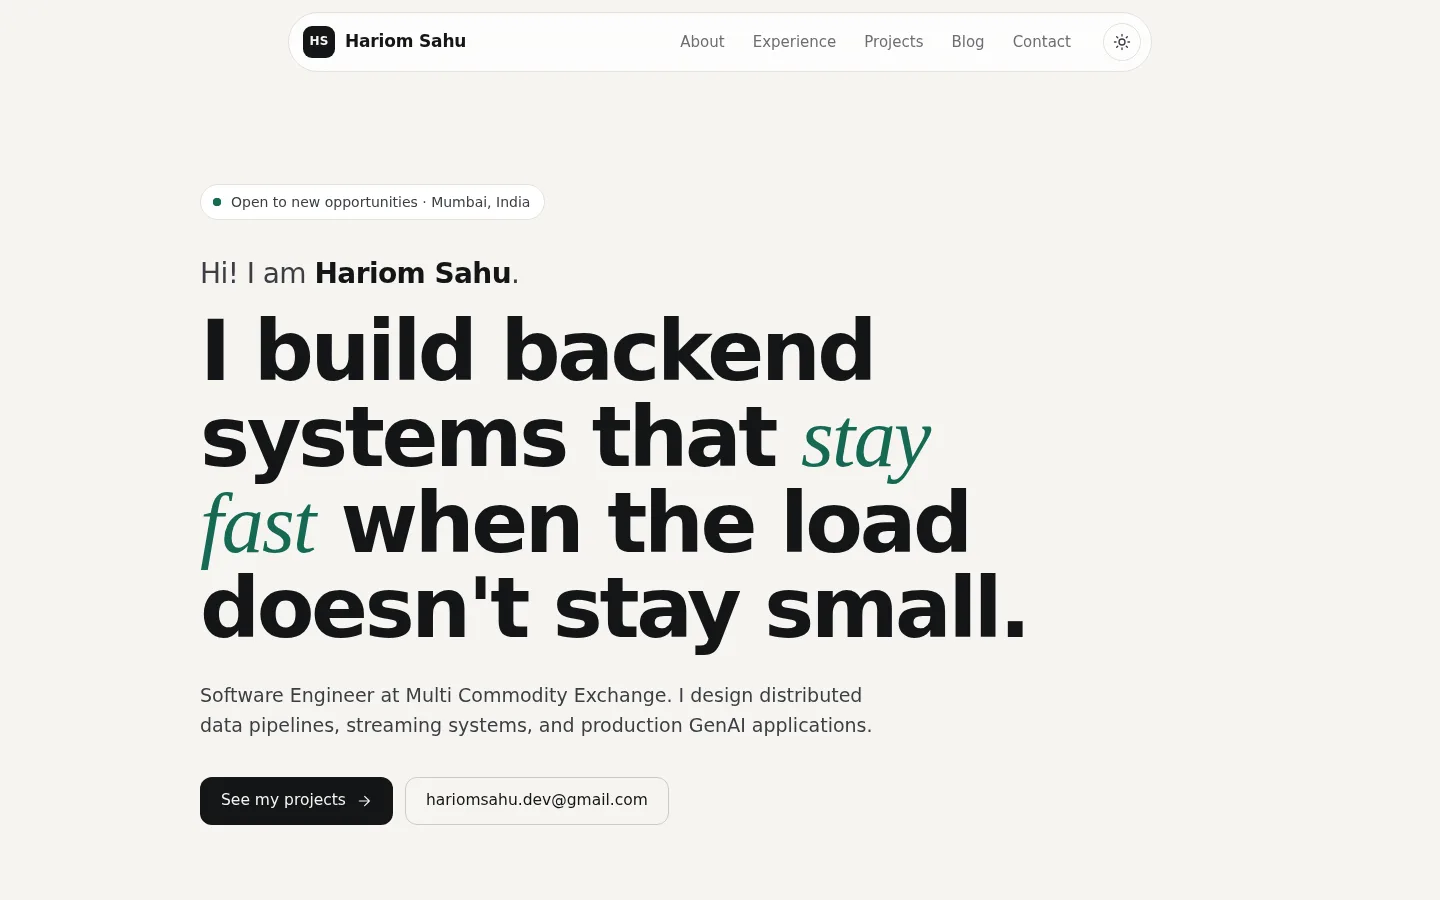
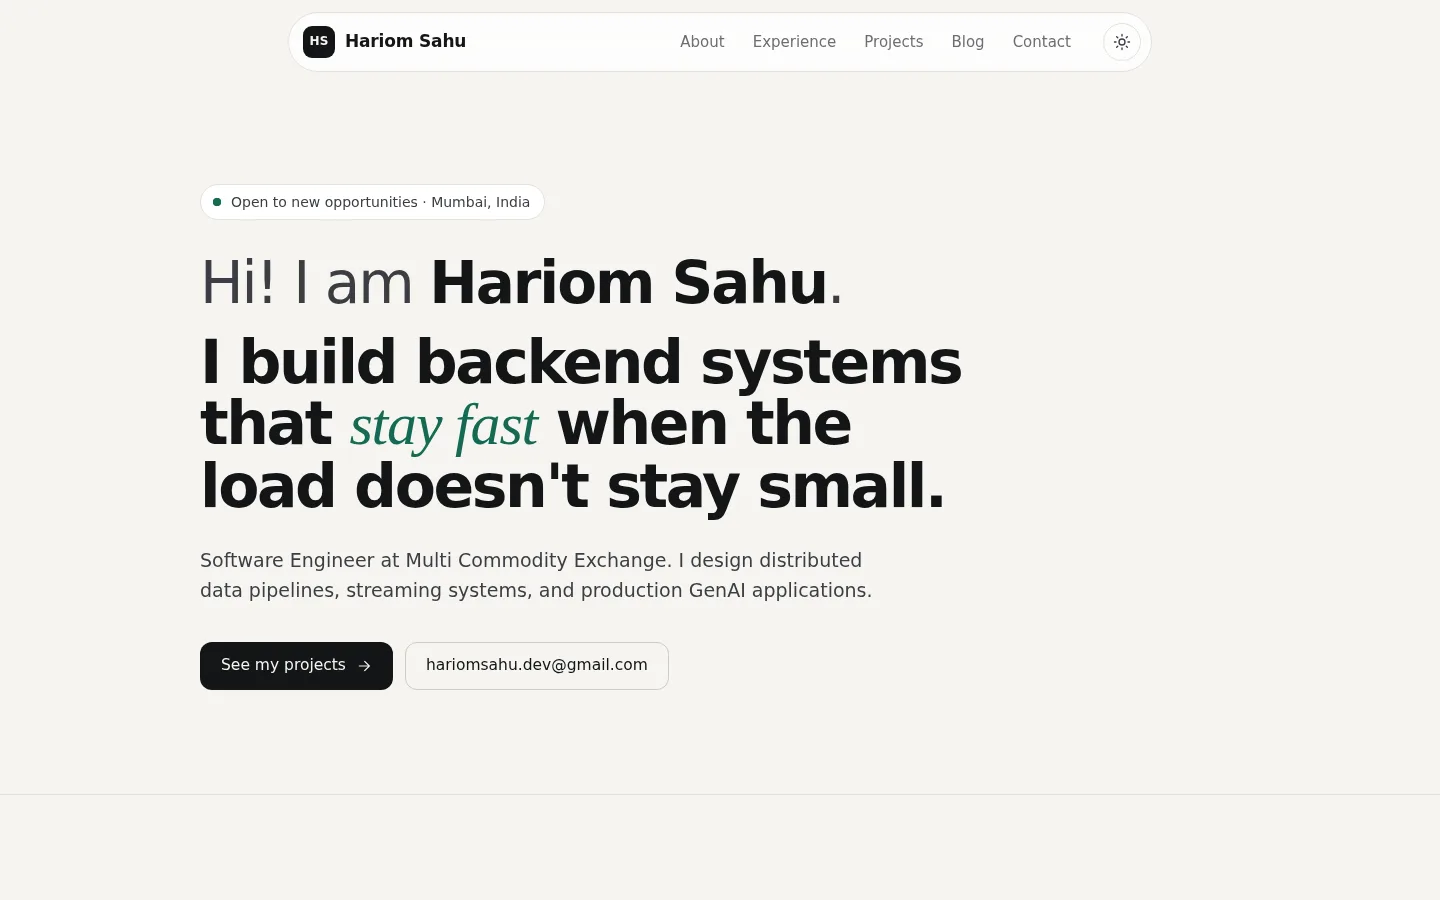
style: larger greeting, smaller headline in hero

Changed region(s): [[0.125, 0.28, 0.7188, 0.8089], [0.125, 0.84, 0.4375, 0.9333]]

diff --git a/assets/css/styles.css b/assets/css/styles.css
@@ -320,16 +320,18 @@ svg { width: 1em; height: 1em; fill: none; stroke: currentColor; stroke-width: 1
 
 .hero-hello {
   margin-top: 32px;
-  font-size: clamp(20px, 2.4vw, 28px);
-  letter-spacing: -0.02em;
+  font-size: clamp(34px, 4.4vw, 58px);
+  font-weight: 400;
+  letter-spacing: -0.035em;
+  line-height: 1.1;
   color: var(--ink-2);
 }
-.hero-hello strong { font-weight: 600; color: var(--ink); }
+.hero-hello strong { font-weight: 700; color: var(--ink); }
 
 .hero-title {
-  margin-top: 12px;
-  max-width: 17ch;
-  font-size: clamp(40px, 7.2vw, 84px);
+  margin-top: 16px;
+  max-width: 20ch;
+  font-size: clamp(30px, 4.6vw, 60px);
   font-weight: 600;
   letter-spacing: -0.04em;
   line-height: 1.02;
